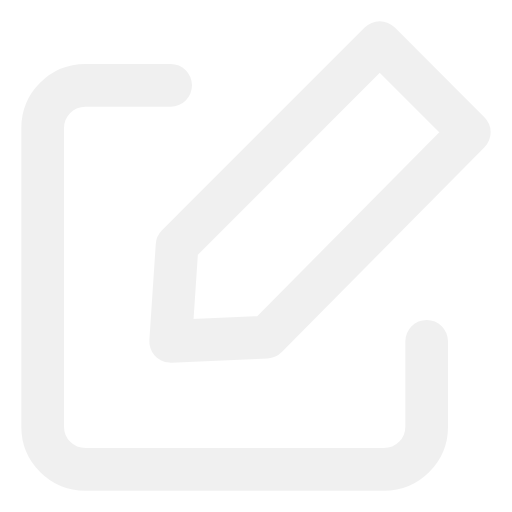
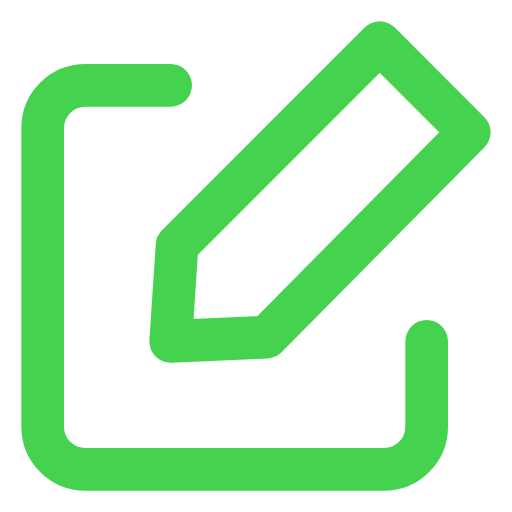
completed matrix theme

diff --git a/src/assets/global.css b/src/assets/global.css
@@ -1,9 +1,5 @@
-@import url('https://fonts.googleapis.com/css2?family=Nunito:wght@300;400;500;600&display=swap');
+@import url('https://fonts.googleapis.com/css2?family=Share+Tech+Mono&display=swap');
 
-
-:root{
-     background-color: #2f39666b;
-}
 
 *{
      margin: 0;
@@ -13,12 +9,12 @@
 
 
 body{
-     font-family: 'Nunito', sans-serif;
+    font-family: 'Share Tech Mono', monospace;
 }
 
 input{
      padding-left: 5px;
-     font-family: 'Nunito', sans-serif;
+     font-family: 'Share Tech Mono', monospace;
  }
 
 
@@ -28,30 +24,51 @@ input{
      padding: 0.25rem 1rem;
      cursor: pointer;
      background: transparent;
-     border: 1px solid whitesmoke;
-     color: #f0f0f0;
+     color: rgba(59, 255, 59, 0.897)!important;
      border-radius: 5px;
-     font-family: 'Nunito', sans-serif;
+     font-family: 'Share Tech Mono', monospace;
      font-size: 16px;
+     box-shadow: 0 0 8px rgb(59, 255, 59);
  }
 
 
  button:hover{
-     background: whitesmoke;
+    transform: scale(1.1);
+    
      color: rgb(40, 40, 40);
      transition: 0.1s ease-in all;
  }
 
  a:-webkit-any-link{
      text-decoration: none;
-     color: whitesmoke;
+     color: rgba(59, 255, 59, 0.897);
  }
 
  .log-container{
      max-width: 300px;
-     background-image: linear-gradient(to right, rgb(61, 61, 61),rgb(32, 32, 32));
+     /* background-image: linear-gradient(to right, rgb(61, 61, 61),rgb(32, 32, 32)); */
      margin: 3rem auto;
      padding: 1rem 0;
-     color: whitesmoke;
+     color: rgb(59, 255, 59);
+     background: none;
+     box-shadow: 0 0 18px rgba(0, 200, 0, 0.5);
      border-radius: 10px;
+ }
+
+ .canvas{
+    position: fixed;
+    top: 0;
+    left: 0;
+    z-index: -1;
+ }
+
+ input, button{
+    background: transparent;
+    border: 2px solid rgba(0, 224, 0, 0.274)!important;
+    color: rgba(59, 255, 59, 0.897);
+ }
+
+ input:focus{
+   outline: 2px solid green;
+   background: rgba(255, 255, 255, 0.1);
  }

diff --git a/public/index.html b/public/index.html
@@ -2,42 +2,11 @@
 <html lang="en">
   <head>
     <meta charset="utf-8" />
-    <link rel="icon" href="%PUBLIC_URL%/favicon.ico" />
     <meta name="viewport" content="width=device-width, initial-scale=1" />
-    <meta name="theme-color" content="#000000" />
-    <meta
-      name="description"
-      content="Web site created using create-react-app"
-    />
-    <link rel="apple-touch-icon" href="%PUBLIC_URL%/logo192.png" />
-    <!--
-      manifest.json provides metadata used when your web app is installed on a
-      user's mobile device or desktop. See https://developers.google.com/web/fundamentals/web-app-manifest/
-    -->
-    <link rel="manifest" href="%PUBLIC_URL%/manifest.json" />
-    <!--
-      Notice the use of %PUBLIC_URL% in the tags above.
-      It will be replaced with the URL of the `public` folder during the build.
-      Only files inside the `public` folder can be referenced from the HTML.
-
-      Unlike "/favicon.ico" or "favicon.ico", "%PUBLIC_URL%/favicon.ico" will
-      work correctly both with client-side routing and a non-root public URL.
-      Learn how to configure a non-root public URL by running `npm run build`.
-    -->
-    <title>React App</title>
+    <title>{todos} - a fullstack react app</title>
   </head>
   <body>
-    <noscript>You need to enable JavaScript to run this app.</noscript>
-    <div id="root"></div>
-    <!--
-      This HTML file is a template.
-      If you open it directly in the browser, you will see an empty page.
-
-      You can add webfonts, meta tags, or analytics to this file.
-      The build step will place the bundled scripts into the <body> tag.
-
-      To begin the development, run `npm start` or `yarn start`.
-      To create a production bundle, use `npm run build` or `yarn build`.
-    -->
+    <div id="root">
+    </div>
   </body>
 </html>

diff --git a/src/App.js b/src/App.js
@@ -8,18 +8,21 @@ import trash from './assets/images/trash.png'
 import edit from './assets/images/edit.png'
 import check from './assets/images/check.png'
 import plus from './assets/images/plus.png'
+import Canvas from './components/Canvas.js'
 
 
 function App(){
+  /* console.log(crypto.randomUUID()) */
   return(
     <div> 
+        <Navbar />
+         <Canvas/>
          <AccountPanel />
-         <Navbar />
          <Routes>
           <Route path ="/" element={
             <div className="app">     
                 <div className="flex">
-                  <h1>todos  ...</h1>
+                  <h1>&#123;todos&#125;</h1>
                     <div className="flex-row">
                       <input type="text" className="add-input" />
                       <img src={plus} className="icon" />
@@ -34,16 +37,9 @@ function App(){
                           <img src={trash} className="icon"/>
                         </div>
                     </div>
-                    <div className="task-list">
-                        <p>task descas asdas asd asadsa asd</p>
-                        <div className="flex-row">
-                          <img src={check} className="icon"/>
-                          <img src={edit} className="icon"/>
-                          <img src={trash} className="icon"/>
-                        </div>
-                    </div>
                   </div>
-                </div>}
+                </div>
+             }
          />
 
           <Route path="/login" element={<Login />} />

diff --git a/src/assets/css/app.css b/src/assets/css/app.css
@@ -1,11 +1,14 @@
 .app{
      max-width: 400px;
      height: 600px;
-     background-image: linear-gradient(to right, rgb(61, 61, 61),rgb(32, 32, 32));
+     /* background-image: linear-gradient(to right, rgb(61, 61, 61),rgb(32, 32, 32)); */
+     background: transparent;
+     backdrop-filter: blur(2px);
+     box-shadow: 0 0 100px rgba(0, 200, 0, 0.5);
      margin: auto;
      transform: translateX(10vw);
      margin-top: 5rem;
-     border-radius: 8px;
+     border-radius: 19px;
 }
 
 @media(max-width: 1223px){
@@ -21,7 +24,7 @@
 }
 
 .flex>h1{
-     color: whitesmoke;
+     color: rgba(59, 255, 59, 0.897);
      margin: 1rem;
 }
 
@@ -38,7 +41,7 @@
      width: 100%;
      margin: 0 1rem;
      padding: 1rem;
-     border-bottom: 1px solid rgba(138, 138, 138, 0.288);
+     border-bottom: 2px solid rgba(0, 224, 0, 0.15);
      height: 80px;
      overflow: hidden; 
 }
@@ -47,7 +50,7 @@
 
 .task-list p{
      font-size: 20px;
-     color: whitesmoke;
+     color: rgba(59, 255, 59, 0.897);
      overflow: hidden;
      white-space: nowrap;
      margin-right: 1rem;
@@ -67,6 +70,6 @@
 
 
 hr.hr{
-     border: 1px solid rgba(138, 138, 138, 0.288);
+     border: 1px solid rgba(0, 224, 0, 0.15);
      width: 100%;
 }

diff --git a/src/components/Canvas.js b/src/components/Canvas.js
@@ -1,0 +1,50 @@
+import {useEffect} from 'react'
+
+
+function Canvas(){
+     useEffect(() => {
+
+          let canvas = document.querySelector("canvas");
+
+let ctx = canvas.getContext("2d");
+let width = canvas.width = window.innerWidth;
+let height = canvas.height = window.innerHeight;
+let str = "A+jk js:2 @dfs 17 tr YY ufds M5r P87 #18 $!& ^dfs $Ew er JH # $ * . (! ;) ,: :";
+let matrix = str.split("");
+let font = 12;
+let col = width / font;
+let arr = [];
+
+for(let i = 0; i < col; i++) {
+    arr[i] = 1;
+}
+
+const draw = () => {
+    ctx.fillStyle = "rgba(0,0,0,0.05)";
+    ctx.fillRect(0, 0, width, height);
+    ctx.fillStyle = "#00FF00";
+    ctx.font = `${font}px system-ui`;
+
+    for(let i = 0; i < arr.length; i++) {
+        let txt = matrix[Math.floor(Math.random() * matrix.length)];
+        ctx.fillText(txt, i * font, arr[i] * font);
+
+        if(arr[i] * font > height && Math.random() > 0.975) {
+            arr[i] = 0;
+        }
+        arr[i]++;
+    }
+}
+
+setInterval(draw, 20);
+
+
+     }, [])
+
+
+     return(
+          <canvas className="canvas"></canvas>
+     )
+}
+
+export default Canvas;

diff --git a/src/assets/css/navbar.css b/src/assets/css/navbar.css
@@ -1,7 +1,10 @@
 nav{
      display: none;
-     background-image: linear-gradient(to right, rgb(61, 61, 61),rgb(32, 32, 32));
+     /* background-image: linear-gradient(to right, rgb(61, 61, 61),rgb(32, 32, 32)); */
+     background: transparent;
+     backdrop-filter: blur(2px);
      padding: 0.75rem 2rem;
+     box-shadow: 0 0 5px rgba(0, 200, 0, 0.5);
 }
 
 @media(max-width: 1223px){
@@ -22,11 +25,11 @@ nav{
 
 nav a{
      text-decoration: none;
-     color: rgb(202, 202, 202);
+     color: rgba(59, 255, 59, 0.897);
 }
 
 nav h1{
-     color: #c2c2c2;
+     color: rgba(59, 255, 59, 0.897);
 }
 
 

diff --git a/src/assets/css/accountpanel.css b/src/assets/css/accountpanel.css
@@ -4,10 +4,12 @@
      top: 0;
      height: 100vh;
      width: 20vw;
-     background-image: linear-gradient(to right, rgb(61, 61, 61),rgb(32, 32, 32));
-     color: whitesmoke;
+     background: transparent;
+     backdrop-filter: blur(2px);
+     box-shadow: 0 0 30px rgba(0, 200, 0, 0.5);
+     /* background-image: linear-gradient(to right, rgb(61, 61, 61),rgb(32, 32, 32)); */
+     color: rgba(59, 255, 59, 0.897);
 }
-
 
 .acc-panel>h1{
      text-align: center;

diff --git a/src/components/AccountPanel.js b/src/components/AccountPanel.js
@@ -27,7 +27,7 @@ function AccountPanel(){
 
      return(
           <div className="acc-panel show">
-               <h1>todos ...</h1>
+               <h1>&#123;todos&#125;</h1>
                <form className="log-form" ref={ref}>
                     <div>
                          <label>Username</label><br />
